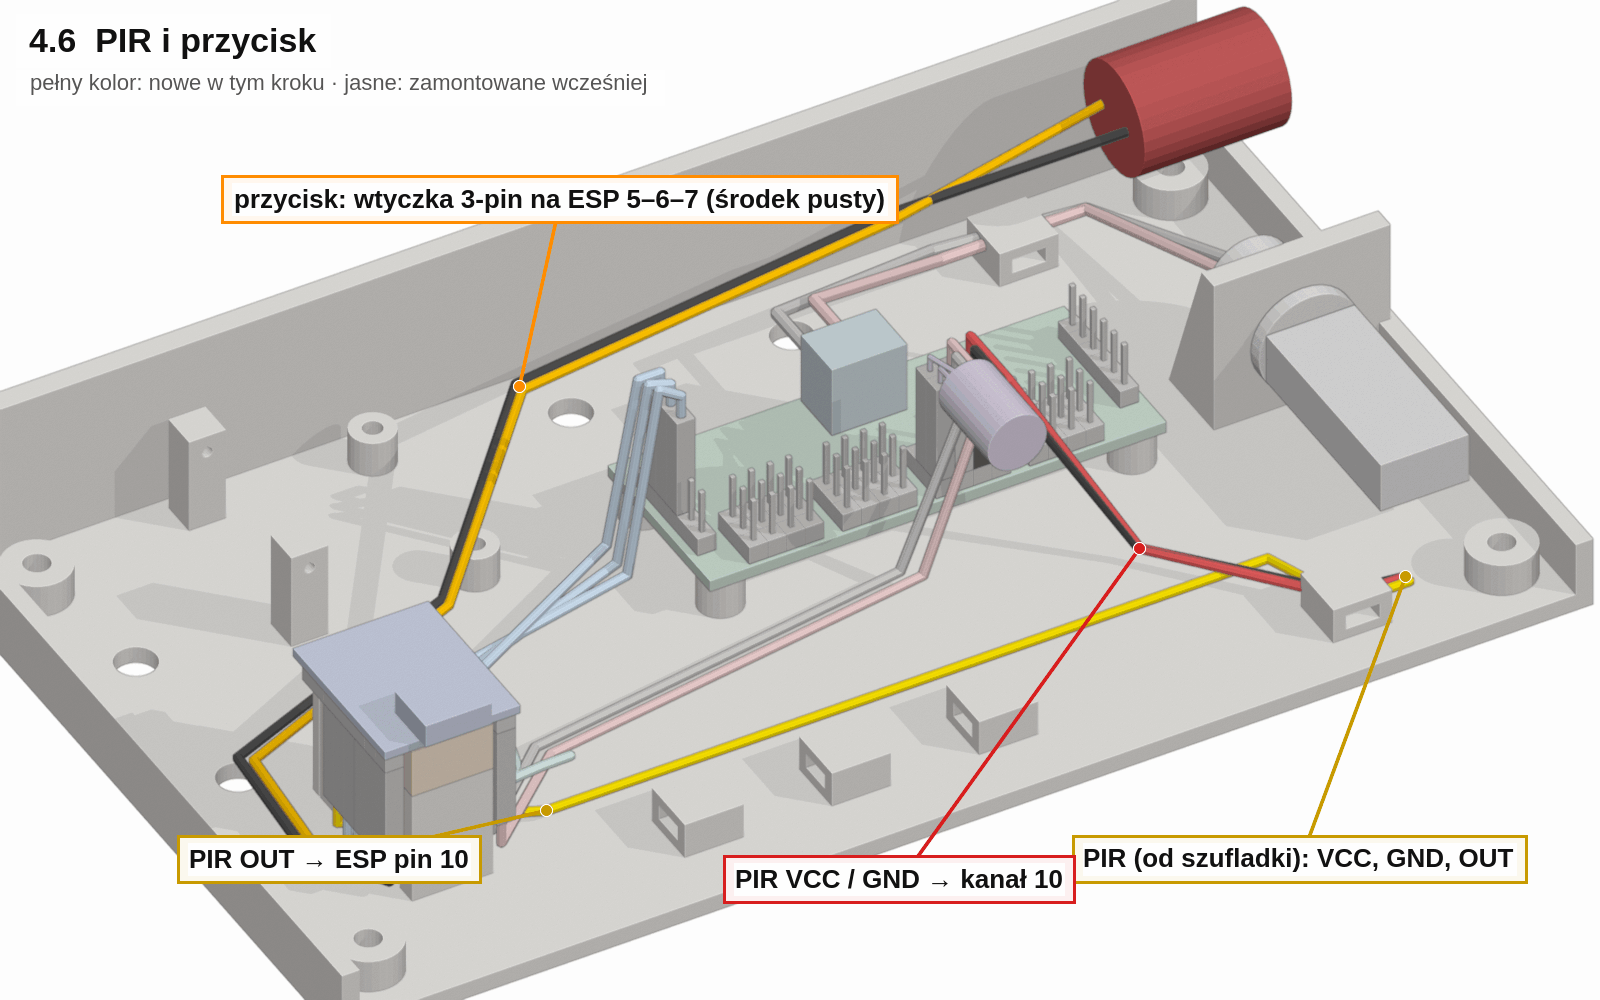
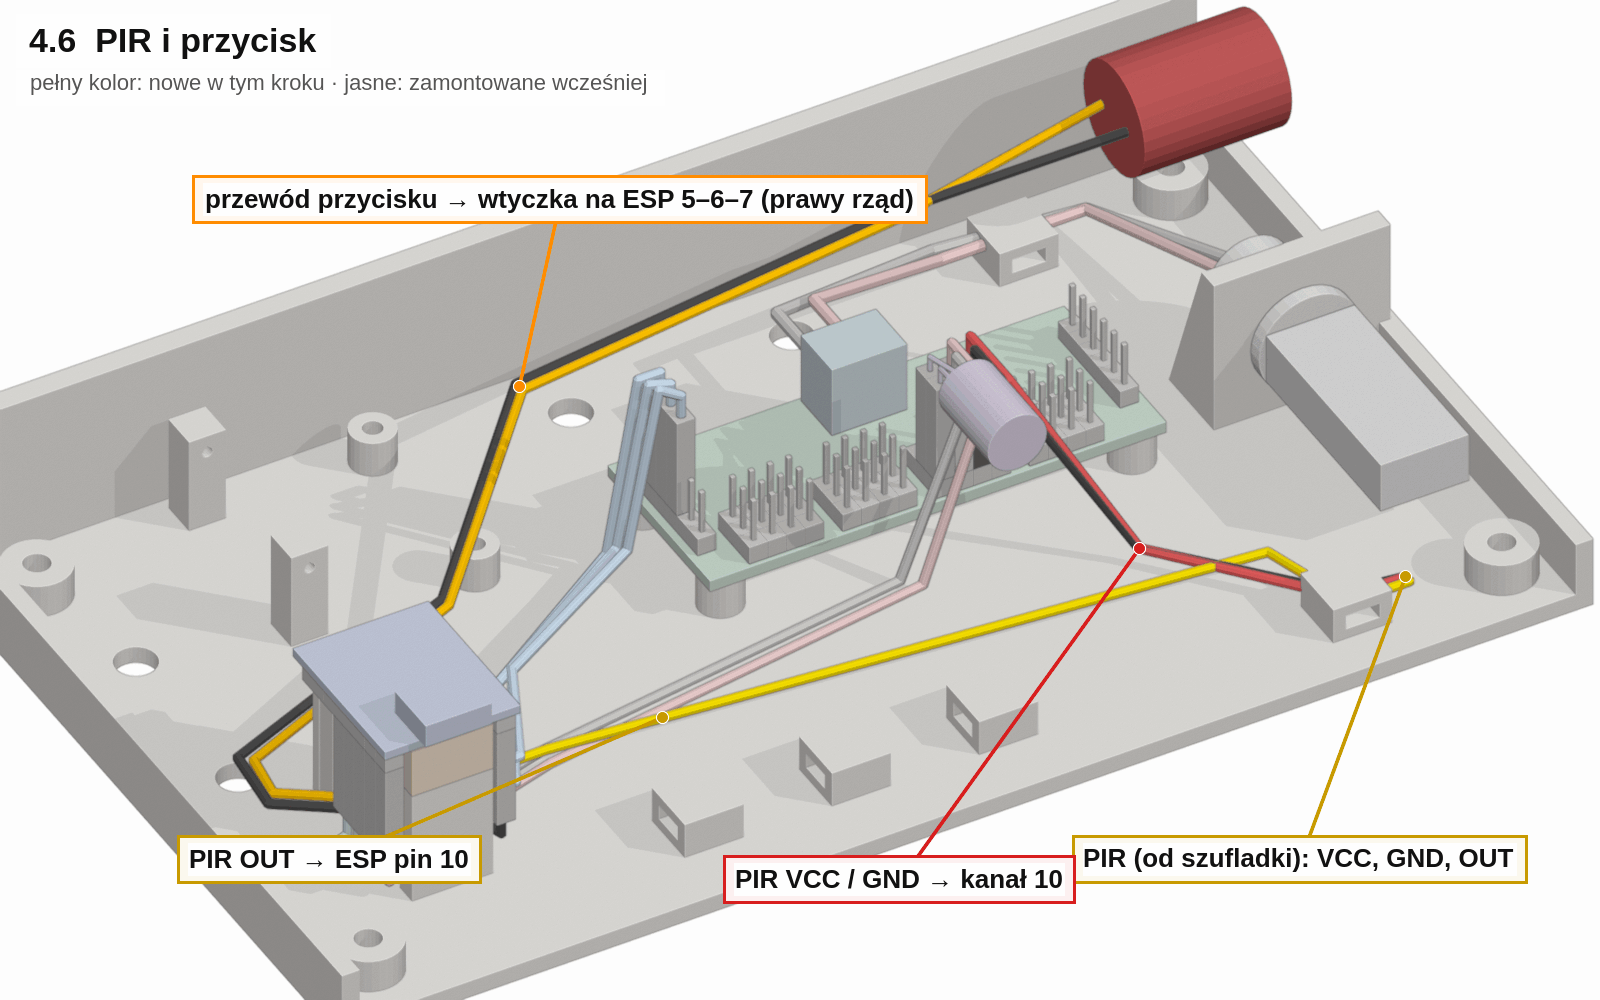
Piny ESP: rzędy zamienione na zgodne z pinoutem SuperMini (układ do góry, USB do przodu: lewy 5V/G/3V3…, prawy 5…21); model, trasy, rendery, nowy schemat 02a

Changed region(s): [[0.25, 0.465, 0.8125, 0.837], [0.125, 0.155, 0.5938, 0.248], [0.1562, 0.775, 0.2188, 0.837]]

diff --git a/50-elektronika/montaz-elektroniki/render.py b/50-elektronika/montaz-elektroniki/render.py
@@ -31,7 +31,7 @@ rowY = [46.8, 46.8 + gp, 46.8 + 2 * gp]          # GND, V+, sygnał
 def bokY(k): return 57.5 + (k - 2.5) * gp         # GND, OE, SCL, SDA, VCC, V+
 bokXL, bokXP = 77.3, 134.7
 dupTop = 9.0 + 2.5 + 14                           # 25,5
-eRowX = [24.2 - 7.6, 24.2 + 7.6]                  # od ściany | od PCA
+eRowX = [24.2 + 7.6, 24.2 - 7.6]   # [0] prawy, od PCA (GPIO5…21) | [1] lewy, od ściany (5V, G, 3V3, 4…0)
 def eY(k): return 18.3 + k * gp
 eDupBot = 25.4 - 2.5 - 14                         # 8,9
 SUFIT = 40
@@ -202,9 +202,7 @@ def krok(nazwa, tytul, nowe, stare, cam, etykiety=(), sufit=False, poziomy=(), z
     KROKI.append(dict(nazwa=nazwa, tytul=tytul, nowe=nowe, stare=stare, cam=cam, et=etykiety, sufit=sufit, poz=poziomy,
                       zn=znaczniki, ukryj=ukryj, leg=legenda))
 
-def pinESP(r, k, z=eDupBot): return (eRowX[r], eY(k), z)   # r: 0 rząd od ściany, 1 rząd od PCA; k: 0 = od przodu (USB)
-NIE_ESP = [g for g in GRUPY if g not in ("esp", "espPiny", "espWtyki", "podkladki", "przyciskWtyczka")]   # widoki spodu ESP: bez tacki i reszty
-SPOD = ((24.2, 26, 14), (0, -1.0, -1.0), 44)                                           # od przodu i z dołu
+# piny ESP z opisem: rysunek schematyczny krok02a-esp-piny w schematy.py (widok z góry, USB do patrzącego)
 dP = dupTop + 1.5                                                                      # punkt na przewodzie tuż nad wtykiem
 
 krok("krok00-calosc", "Całość na tacce", WSZ, [], ((85, 50, 12), ISO, 205), [
@@ -213,7 +211,7 @@ krok("krok00-calosc", "Całość na tacce", WSZ, [], ((85, 50, 12), ISO, 205), [
     ("zacisk V+ / GND", (106, 66, 19), (900, 180), "#1f6f8b"),
     ("gniazdo USB-C", (157, 46, 16), (1480, 600), SZ),
     ("przycisk", (161, 83, 30.5), (1420, 200), "#8b1a1a"),
-    ("przycisk: wtyczka 3-pin na ESP 5–6–7 (środek pusty)", (70, 82.7, 14), (560, 90), "#ff8c00"),
+    ("przewód przycisku → wtyczka na ESP 5–6–7 (prawy rząd)", (70, 82.7, 14), (560, 90), "#ff8c00"),
     ("skrętki do oczu", (70, 6, 40), (520, 880), FI),
     ("kondensator", (107, 30, 33), (900, 880), FI),
     ("rezystor (zapas)", (32, 80, 16.4), (300, 150), PO),
@@ -228,25 +226,9 @@ krok("krok01-pca", "4.1  PCA9685 na słupkach", K1, [], ((106, 58, 8), ISO, 115)
 krok("krok02-esp", "4.2  ESP: wtyki na pinach, podkładki, ESP na słupkach", K2, K1, ((28, 30, 18), (-0.6, -1.2, 1.0), 80), [
     ("podkładki 7 mm na słupkach (2 szt.)", (24.2, 16.5, 21.9), (1150, 420), PO),
     ("ESP: USB do przodu", (24.2, 15, 29.8), (330, 260), NI),
-    ("8 wtyków nałożonych przed klejeniem", (eRowX[1] + 1.25, eY(0) - 1.25, 12), (1150, 820), SZ),
-    ("przycisk: wtyczka 3-pin na ESP 5–6–7 (środek pusty)", (eRowX[0] - 1.25, eY(1), 12), (520, 900), "#ff8c00"),
+    ("8 wtyków nałożonych przed klejeniem", (eRowX[1] + 1.25, eY(0) - 1.25, 12), (430, 900), SZ),
+    ("przycisk: wtyczka 3-pin na ESP 5–6–7 (środek pusty)", (eRowX[0] + 0.5, eY(1) - 3.8, 12), (1150, 920), "#ff8c00"),
 ])
-krok("krok02a-esp-piny", "4.2  Wtyki na pinach ESP (od przodu z dołu, tacka ukryta)", K2, [], SPOD, [
-    ("5V", pinESP(1, 0), (1300, None), CZ),
-    ("G", pinESP(1, 1), (1300, None), SZ),
-    ("3V3", pinESP(1, 2), (1300, None), NI),
-    ("4: zapas", pinESP(1, 3), (1300, None), "#888888"),
-    ("3: zapas", pinESP(1, 4), (1300, None), "#888888"),
-    ("5: masa przycisku", pinESP(0, 0), (300, None), SZ),
-    ("6: pusty", pinESP(0, 1), (300, None), "#888888"),
-    ("7: przycisk", pinESP(0, 2), (300, None), "#ff8c00"),
-    ("8 = SDA", pinESP(0, 3), (300, None), NI),
-    ("9 = SCL", pinESP(0, 4), (300, None), NI),
-    ("10 (PIR OUT)", pinESP(0, 5), (300, None), ZO),
-    ("rząd od ściany", None, (300, 300), SZ),
-    ("↑ przód płytki (USB)", None, (800, 330), NI),
-    ("rząd od PCA", None, (1300, 300), SZ),
-], ukryj=NIE_ESP, legenda=False)
 krok("krok02b-esp-wysokosci", "4.2  Wysokości przy ESP (widok od przodu, przekrój)", K2, K1 + ["tacka"], ((45, 30, 20), (0, -1, 0), 110, 15), [],
      sufit=True, poziomy=[
          (0, "spód tacki 0", (10, 20), 40, 650),
@@ -264,7 +246,7 @@ krok("krok03-zasilanie", "4.3  Zasilanie: gniazdo USB-C do zacisku", K3, K1 + K2
 krok("krok04-esp-pca", "4.4  ESP do PCA", K4, K1 + K2 + K3, ((70, 42, 12), ISO, 135), [
     ("kanał 9: 5V / G z ESP", (chX(9), 48, 25.5), (1330, 430), CZ),
     ("lewa listwa: SDA, SCL, VCC", (bokXL, bokY(3), 25.5), (620, 150), NI),
-    ("zapas: ESP 3 i 4", (46, 27, 6.5), (200, 700), "#888888"),
+    ("zapas: ESP 4 i 3 (lewy rząd)", (11.5, 25, 5), (200, 700), "#888888"),
 ])
 krok("krok04b-lewa-listwa", "4.4  Zbliżenie: lewa listwa PCA (widok od lewej)", K4, K1 + K2 + K3, ((bokXL, 57.5, 21), (-1.0, -0.3, 0.9), 42), [
     ("VCC ← ESP 3V3", (bokXL, bokY(4), dP), (560, 170), NI),
@@ -278,18 +260,6 @@ krok("krok04c-kanal9", "4.4  Zbliżenie: kanał 9 (zasilanie ESP)", K4, K1 + K2 
     ("kanał 9 V+ ← ESP 5V (czerwony)", (chX(9), rowY[1], dP), (1150, 200), CZ),
     ("kanał 9 GND ← ESP G (czarny)", (chX(9), rowY[0], dupTop - 3), (1150, 850), SZ),
 ])
-krok("krok04d-esp-piny", "4.4  Przewody na pinach ESP (od przodu z dołu, tacka ukryta)", K4, K2, SPOD, [
-    ("5V → kanał 9 V+", pinESP(1, 0, 6.5), (1330, None), CZ),
-    ("G → kanał 9 GND", pinESP(1, 1, 6.5), (1330, None), SZ),
-    ("3V3 → VCC lewej listwy", pinESP(1, 2, 6.5), (1330, None), NI),
-    ("4: zapas", pinESP(1, 3, 7.7), (1330, 690), "#888888"),
-    ("3: zapas", pinESP(1, 4, 6.5), (1330, None), "#888888"),
-    ("5: masa przycisku", pinESP(0, 0), (260, None), SZ),
-    ("6: pusty", pinESP(0, 1), (260, None), "#888888"),
-    ("7: przycisk", pinESP(0, 2), (260, None), "#ff8c00"),
-    ("8 → SDA lewej listwy", pinESP(0, 3, 6.5), (260, None), NI),
-    ("9 → SCL lewej listwy", pinESP(0, 4, 6.5), (260, None), NI),
-], ukryj=[g for g in NIE_ESP if g not in K4])
 krok("krok05-kondensator", "4.5  Kondensator na kanale 8 (leży poziomo do przodu)", K5, K1 + K2 + K3 + K4, ((105, 42, 22), (-0.6, -1.0, 1.1), 62), [
     ("pasek (−) na GND kanału 8 (przy krawędzi)", (chX(8), rowY[0], dupTop), (420, 200), SZ),
     ("„+” na V+ kanału 8", (chX(8), rowY[1], dupTop), (1220, 230), CZ),
@@ -297,8 +267,8 @@ krok("krok05-kondensator", "4.5  Kondensator na kanale 8 (leży poziomo do przod
 ])
 krok("krok06-pir-przycisk", "4.6  PIR i przycisk", K6, K1 + K2 + K3 + K4 + K5, ((90, 50, 12), ISO, 190), [
     ("PIR (od szufladki): VCC, GND, OUT", (150, 10, 5), (1300, 860), ZO),
-    ("PIR OUT → ESP pin 10", (40, 22, 4), (330, 860), ZO),
-    ("przycisk: wtyczka 3-pin na ESP 5–6–7 (środek pusty)", (70, 82.7, 14), (560, 200), "#ff8c00"),
+    ("PIR OUT → ESP pin 10", (60, 29.5, 5), (330, 860), ZO),
+    ("przewód przycisku → wtyczka na ESP 5–6–7 (prawy rząd)", (70, 82.7, 14), (560, 200), "#ff8c00"),
     ("PIR VCC / GND → kanał 10", (125, 30, 5), (900, 880), CZ),
 ])
 krok("krok06b-kanal10-przycisk", "4.6  Zbliżenie – kanał 10: PIR VCC / GND", K6, K1 + K2 + K3 + K4 + K5, ((118, 52, 22), (0.2, -1.0, 1.5), 55), [
@@ -307,12 +277,6 @@ krok("krok06b-kanal10-przycisk", "4.6  Zbliżenie – kanał 10: PIR VCC / GND",
     ("kanał 8: kondensator", (chX(8) - 1, 40.5, dupTop + 4), (330, 300), FI),
     ("kanał 9: ESP", (chX(9), rowY[1], dP + 1.5), (380, 500), CZ),
 ])
-krok("krok06c-esp-piny", "4.6  PIR i przycisk na pinach ESP (od przodu z dołu, tacka ukryta)", K6, K2 + K4, SPOD, [
-    ("10 ← PIR OUT", pinESP(0, 5, 6.5), (260, None), ZO),
-    ("5: masa przycisku", pinESP(0, 0), (260, None), SZ),
-    ("6: pusty", pinESP(0, 1), (260, None), "#888888"),
-    ("7: przycisk", pinESP(0, 2), (260, None), "#ff8c00"),
-], ukryj=[g for g in NIE_ESP if g not in K4 + K6] + ["przycisk"])
 krok("krok07-skretki", "4.7  Skrętki do oczu (po jednej, z testem)", K7, K1 + K2 + K3 + K4 + K5 + K6, ((90, 35, 18), ISO, 150), [
     ("lewa: kanały 0–3", (55, 9, 12), (330, 850), FI),
     ("prawa: kanały 4–7", (75, 9, 12), (760, 900), FI),

diff --git a/50-elektronika/montaz-elektroniki/schematy.py b/50-elektronika/montaz-elektroniki/schematy.py
@@ -1,7 +1,7 @@
-# Rysunki schematyczne skrętek do montaz-elektroniki.md, rozdział 5 (SVG → PNG przez rsvg-convert).
-# Użycie: python3 schematy.py   → img/krok07d-lutowanie-wtyczek.png, img/krok07e-serwa-strona-oczu.png
+# Rysunki schematyczne do montaz-elektroniki.md: piny ESP (krok 2) i skrętki (rozdział 5), SVG → PNG przez rsvg-convert.
+# Użycie: python3 schematy.py [nazwa ...]   → img/krok02a-esp-piny.png, img/krok07d-lutowanie-wtyczek.png, img/krok07e-serwa-strona-oczu.png
 # Wymaga: rsvg-convert (librsvg), czcionka Liberation Sans albo DejaVu Sans.
-import os, subprocess
+import os, subprocess, sys
 
 TU = os.path.dirname(os.path.abspath(__file__))
 IMG = os.path.join(TU, "img")
@@ -51,6 +51,84 @@ def strzalka_wym(x0, x1, y, t):
         s += f'<path d="M{x},{y} l{14 * d},-8 l0,16 z" fill="#b00020"/>'
         s += f'<line x1="{x}" y1="{y - 16}" x2="{x}" y2="{y + 16}" stroke="#b00020" stroke-width="2"/>'
     return s + tekst((x0 + x1) / 2, y - 14, t, 22, "#b00020", "middle", True)
+
+# ---------- krok02a: piny ESP32-C3 SuperMini, widok z góry, USB do patrzącego ----------
+# Zgodnie z tabelą pinów w montaz-elektroniki.md, krok 2 (rząd lewy od ściany tacki: 5V, G, 3V3, 4, 3, 2, 1, 0;
+# rząd prawy od PCA: 5, 6, 7, 8, 9, 10, 20, 21; pozycje od USB).
+def krok02a():
+    W, H = 1600, 960
+    CZ, CA, NB, ZO, PO, ZP, SZ = "#d81e1e", "#141414", "#1e78d8", "#b08600", "#e07800", "#1f9a8a", "#9a9a9a"
+    LEWY = [("5V", "→ kanał 9 V+ (PCA)", CZ), ("G", "→ kanał 9 GND (PCA)", CA), ("3V3", "→ lewa listwa PCA: VCC", NB),
+            ("4", "zapas – koniec zaizolowany", ZP), ("3", "zapas – koniec zaizolowany", ZP),
+            ("2", "wolny", None), ("1", "wolny", None), ("0", "wolny", None)]
+    PRAWY = [("5", "→ przycisk: masa", PO), ("6", "pusty (środek wtyczki)", None), ("7", "→ przycisk: odczyt", PO),
+             ("8", "→ lewa listwa PCA: SDA", NB), ("9", "→ lewa listwa PCA: SCL", NB), ("10", "→ PIR OUT", ZO),
+             ("20", "wolny", None), ("21", "wolny", None)]
+    mm = 20                                     # skala płytki [px/mm]
+    cx, yb = 800, 740                           # oś płytki, krawędź płytki od strony USB
+    bw, bl = 18.4 * mm, 22.5 * mm
+    xl, xp = cx - 7.6 * mm, cx + 7.6 * mm       # rzędy pinów
+    def yk(k): return yb - (1.8 + 2.54 * k) * mm
+    s = tekst(30, 52, "4.2  Piny ESP – widok z góry: układ scalony do góry, USB do Ciebie", 34, bold=True)
+    s += tekst(30, 88, "pozycja liczona od USB (1 = najbliżej USB) · czarny kwadrat = wtyk Dupont nałożony na pin od spodu · napisy na płytce mają pierwszeństwo", 20, "#555")
+    # nagłówki kolumn i strony tacki
+    s += tekst(xl - 60, 170, "LEWY rząd (od ściany tacki)", 30, "#111", "end", True)
+    s += tekst(xp + 60, 170, "PRAWY rząd (od PCA)", 30, "#111", "start", True)
+    s += tekst(30, 215, "← lewa ściana tacki", 24, "#555")
+    s += tekst(W - 30, 215, "PCA9685 →", 24, "#555", "end")
+    # płytka
+    s += f'<rect x="{cx - bw / 2}" y="{yb - bl}" width="{bw}" height="{bl}" rx="14" fill="#1d3fb8" stroke="#0d1f66" stroke-width="4"/>'
+    s += f'<rect x="{cx - 2.5 * mm}" y="{yb - bl + 1.2 * mm}" width="{5 * mm}" height="{2.6 * mm}" rx="4" fill="#d9d9d9" stroke="#333" stroke-width="2"/>'
+    s += tekst(cx, yb - bl + 1.2 * mm + 34, "antena", 20, "#111", "middle")
+    s += f'<rect x="{cx - 2.6 * mm}" y="{yk(4.2)}" width="{5.2 * mm}" height="{5.2 * mm}" rx="6" fill="#151515" stroke="#555" stroke-width="2"/>'
+    s += tekst(cx, yk(4.2) + 2.6 * mm - 6, "układ", 20, "#fff", "middle", True)
+    s += tekst(cx, yk(4.2) + 2.6 * mm + 18, "scalony", 20, "#fff", "middle", True)
+    # gniazdo USB-C ESP (wystaje przed płytkę)
+    s += f'<rect x="{cx - 4.5 * mm}" y="{yb - 6 * mm}" width="{9 * mm}" height="{7.5 * mm}" rx="16" fill="#c0c4c9" stroke="#333" stroke-width="3"/>'
+    s += tekst(cx, yb - 2.2 * mm, "USB-C", 24, "#111", "middle", True)
+    # wtyczka przycisku 3-pin na prawych pozycjach 1–3 (obudowa pod płytką)
+    s += f'<rect x="{xp - 22}" y="{yk(2) - 30}" width="44" height="{yk(0) - yk(2) + 60}" rx="6" fill="#202020" stroke="{PO}" stroke-width="4"/>'
+    # piny, wtyki, nazwy na płytce, etykiety
+    for strona, rzad, x in (("L", LEWY, xl), ("P", PRAWY, xp)):
+        for k, (nazwa, dokad, kol) in enumerate(rzad):
+            y = yk(k)
+            wtyk = kol is not None
+            if wtyk and not (strona == "P" and k <= 2):
+                s += f'<rect x="{x - 19}" y="{y - 19}" width="38" height="38" rx="4" fill="#151515"/>'
+            s += f'<circle cx="{x}" cy="{y}" r="11" fill="#e8c35a" stroke="#6b5310" stroke-width="3"/>'
+            s += f'<circle cx="{x}" cy="{y}" r="4" fill="#6b5310"/>'
+            # nazwa pinu na płytce (jak nadruk)
+            s += tekst(x + (26 if strona == "L" else -26), y + 7, nazwa, 20, "#ffffff", "start" if strona == "L" else "end", True)
+            # numer pozycji od USB
+            xn = x - 70 if strona == "L" else x + 70
+            # etykieta: [nazwa] dokąd
+            kol_r = kol or SZ
+            txt = dokad
+            szer_n = 22 + 15 * len(nazwa)
+            szer_t = 13.2 * len(txt) + 20
+            xb0 = xn - 30 - szer_n - szer_t if strona == "L" else xn + 30
+            s += f'<line x1="{x}" y1="{y}" x2="{xn + (-17 if strona == "L" else 17)}" y2="{y}" stroke="{kol_r}" stroke-width="3"/>'
+            s += f'<line x1="{xn + (-17 if strona == "L" else 17)}" y1="{y}" x2="{xb0 + (szer_n + szer_t if strona == "L" else 0)}" y2="{y}" stroke="{kol_r}" stroke-width="3"/>'
+            s += f'<circle cx="{xn}" cy="{y}" r="17" fill="#ffffff" stroke="#777" stroke-width="2"/>' + tekst(xn, y + 7, str(k + 1), 20, "#555", "middle", True)
+            s += f'<rect x="{xb0}" y="{y - 20}" width="{szer_n + szer_t}" height="40" rx="7" fill="#ffffff" stroke="{kol_r}" stroke-width="3"/>'
+            s += f'<rect x="{xb0}" y="{y - 20}" width="{szer_n}" height="40" rx="7" fill="{kol_r}"/>'
+            s += tekst(xb0 + szer_n / 2, y + 9, nazwa, 26, "#ffffff", "middle", True)
+            s += tekst(xb0 + szer_n + 10, y + 8, txt, 22, "#111" if kol else "#888", "start", bool(kol))
+    for xn in (xl - 70, xp + 70):
+        s += tekst(xn, yk(7) - 34, "poz.", 18, "#777", "middle", True)
+    # klamra: wtyczka przycisku
+    xk = 1460
+    s += f'<path d="M{xk},{yk(0) + 20} l14,0 l0,{-(yk(0) - yk(2)) - 40} l-14,0" fill="none" stroke="{PO}" stroke-width="4"/>'
+    s += tekst(xk + 22, yk(1) - 4, "jedna", 22, PO, "start", True)
+    s += tekst(xk + 22, yk(1) + 20, "wtyczka", 22, PO, "start", True)
+    s += tekst(xk + 22, yk(1) + 44, "przycisku", 22, PO, "start", True)
+    # USB do patrzącego
+    ya = yb + 2 * mm
+    s += f'<line x1="{cx}" y1="{ya}" x2="{cx}" y2="{ya + 90}" stroke="#b00020" stroke-width="6"/>'
+    s += f'<path d="M{cx - 20},{ya + 80} L{cx},{ya + 115} L{cx + 20},{ya + 80} z" fill="#b00020"/>'
+    s += tekst(cx + 40, ya + 70, "USB – do Ciebie / do przodu tacki", 28, "#b00020", "start", True)
+    s += tekst(30, H - 30, "Wolne piny: 2, 1, 0 (lewy rząd) oraz 20, 21 (prawy rząd) – bez wtyków.", 22, "#333")
+    zapisz("krok02a-esp-piny", W, H, s)
 
 # ---------- krok07d: strona tacki – żyły do wtyczek odciętych od serw ----------
 def krok07d():
@@ -165,5 +243,6 @@ def krok07e():
 
 if __name__ == "__main__":
     os.makedirs(IMG, exist_ok=True)
-    krok07d()
-    krok07e()
+    RYS = {"krok02a-esp-piny": krok02a, "krok07d-lutowanie-wtyczek": krok07d, "krok07e-serwa-strona-oczu": krok07e}
+    for n in sys.argv[1:] or RYS:
+        RYS[n]()

diff --git a/50-elektronika/montaz-elektroniki.md b/50-elektronika/montaz-elektroniki.md
@@ -39,7 +39,7 @@ Obrazki wygenerowano z modelu `montaz-elektroniki/elementy.scad` (tacka z commit
 | 8 | PIR VCC | kanał 10 V+ | czerwony | 400, przyciąć na miejscu | kabel DFRobot na PIR (środkowy przewód = OUT – sprawdź) / lut + żeńska połówka |
 | 9 | PIR GND | kanał 10 GND | czarny | 400, przyciąć | kabel DFRobot na PIR (środkowy przewód = OUT – sprawdź) / lut + żeńska połówka |
 | 10 | PIR OUT | ESP 10 | żółty | 450, przyciąć | kabel DFRobot na PIR (środkowy przewód = OUT – sprawdź) / lut + żeńska połówka |
-| 11 | przycisk (obie nóżki) | ESP piny 5–6–7, rząd od ściany tacki | gotowy przewód użytkownika | min. ok. 200 (trasa w modelu ok. 185) – sprawdź, czy sięga | przylutowany / wtyczka 3-pin na skrajnych pozycjach, środek pusty; strona wtyczki obojętna |
+| 11 | przycisk (obie nóżki) | ESP piny 5–6–7, rząd prawy (od PCA), pozycje 1–3 od USB | gotowy przewód użytkownika | min. ok. 200 (trasa w modelu ok. 185) – sprawdź, czy sięga | przylutowany / wtyczka 3-pin na skrajnych pozycjach, środek pusty; strona wtyczki obojętna |
 | 13 | ESP 3 | – (zapas) | dowolny | 200 | Dupont / koniec zaizolowany |
 | 14 | ESP 4 | – (zapas) | dowolny | 200 | Dupont / koniec zaizolowany |
 
@@ -63,24 +63,24 @@ PIR: od płytki w szufladce przez korpus do uchwytu opaski na tacce (przedni pra
    ![PCA na słupkach](montaz-elektroniki/img/krok01-pca.png)
 2. **ESP – wtyki przed klejeniem:** nałóż 8 pojedynczych wtyków (5V, G, 3V3, 4, 8, 9, 10, 3) i wtyczkę przycisku 3-pin na piny 5–6–7 (przycisk z przewodem wisi luzem do kroku 6) (piny z rysunku w `polaczenia.md`; napisy na płytce mają pierwszeństwo). Opisz końce taśmą. Zmierz od spodu płytki do miejsca, gdzie przewód da się zgiąć – to wysokość podkładek + 16. Podkładki przyklej na słupki, ESP na podkładki, USB do przodu.
 
-   Piny ESP (widok z góry, USB do przodu tacki; liczone od strony USB). Wtyk = Dupont żeński na pinie:
+   Piny ESP – widok z góry: układ scalony do góry, USB do przodu tacki (do Ciebie, na dole). Pozycja liczona od USB. Wtyk = Dupont żeński na pinie:
 
-   | Poz. od USB | Rząd od ściany tacki | wtyk → dokąd | Rząd od PCA | wtyk → dokąd |
+   | Poz. od USB | Rząd LEWY (od ściany tacki) | wtyk → dokąd | Rząd PRAWY (od PCA) | wtyk → dokąd |
    |---|---|---|---|---|
-   | 1 | 5 | **wtyczka przycisku** (masa przycisku – program ustawia LOW) | 5V | **tak** → kanał 9 V+ |
-   | 2 | 6 | środek wtyczki przycisku – pusty | G | **tak** → kanał 9 GND |
-   | 3 | 7 | **wtyczka przycisku** (odczyt) | 3V3 | **tak** → lewa listwa VCC |
-   | 4 | 8 | **tak** → lewa listwa SDA | 4 | **tak** – zapas, koniec zaizolowany |
-   | 5 | 9 | **tak** → lewa listwa SCL | 3 | **tak** – zapas, koniec zaizolowany |
-   | 6 | 10 | **tak** → PIR OUT | 2 | – |
-   | 7 | 20 | – | 1 | – |
-   | 8 | 21 | – | 0 | – |
+   | 1 | 5V | **tak** → kanał 9 V+ | 5 | **wtyczka przycisku** (masa przycisku – program ustawia LOW) |
+   | 2 | G | **tak** → kanał 9 GND | 6 | środek wtyczki przycisku – pusty |
+   | 3 | 3V3 | **tak** → lewa listwa VCC | 7 | **wtyczka przycisku** (odczyt) |
+   | 4 | 4 | **tak** – zapas, koniec zaizolowany | 8 | **tak** → lewa listwa SDA |
+   | 5 | 3 | **tak** – zapas, koniec zaizolowany | 9 | **tak** → lewa listwa SCL |
+   | 6 | 2 | – | 10 | **tak** → PIR OUT |
+   | 7 | 1 | – | 20 | – |
+   | 8 | 0 | – | 21 | – |
 
-   Kolejność z typowego ESP32-C3 SuperMini – przed nałożeniem wtyków porównaj z napisami na płytce. Wtyki zabezpiecz klejem na gorąco dopiero po testach (krok 9): kropla łączy obudowy w rzędzie z plastikiem listwy, nie na elementy płytki i nie na gniazdo USB.
+   Układ według pinoutu ESP32-C3 SuperMini (Random Nerd Tutorials; tam płytka pokazana od spodu, USB u góry) i obserwacji użytkownika 28.10 (USB do siebie, 5V, G, 3V3 po lewej). Napisy na płytce mają pierwszeństwo. Wtyki zabezpiecz klejem na gorąco dopiero po testach (krok 9): kropla łączy obudowy w rzędzie z plastikiem listwy, nie na elementy płytki i nie na gniazdo USB.
 
    ![ESP: wtyki, podkładki, ESP na słupkach](montaz-elektroniki/img/krok02-esp.png)
 
-   ![Wtyki na pinach ESP, widok od przodu z dołu](montaz-elektroniki/img/krok02a-esp-piny.png)
+   ![Piny ESP, widok z góry, USB do Ciebie: dokąd idzie każdy pin](montaz-elektroniki/img/krok02a-esp-piny.png)
 
    ![Wysokości przy ESP](montaz-elektroniki/img/krok02b-esp-wysokosci.png)
 3. **Zasilanie:** gniazdo USB-C w ściankę (nakrętka od tyłu), przewody 1–2 przez uchwyt opaski do zacisku (V+ i GND według napisu przy zacisku). **Test:** powerbank, miernik na pinach V+/GND kanału 9: ok. 5 V.
@@ -93,8 +93,6 @@ PIR: od płytki w szufladce przez korpus do uchwytu opaski na tacce (przedni pra
    ![Lewa listwa PCA: VCC, SDA, SCL](montaz-elektroniki/img/krok04b-lewa-listwa.png)
 
    ![Kanał 9: 5V i G z ESP](montaz-elektroniki/img/krok04c-kanal9.png)
-
-   ![Przewody na pinach ESP](montaz-elektroniki/img/krok04d-esp-piny.png)
 5. **Kondensator:** nóżki skrócone i zagięte, wtyki na kanał 8: pasek (−) na GND (rząd przy krawędzi płytki), druga na V+. Korpus leży poziomo do przodu; przewody 5V i G do kanału 9 poprowadź obok korpusu, nie przez niego (w modelu trasa ociera o kondensator).
 
    ![Kondensator na kanale 8](montaz-elektroniki/img/krok05-kondensator.png)
@@ -103,8 +101,6 @@ PIR: od płytki w szufladce przez korpus do uchwytu opaski na tacce (przedni pra
    ![PIR i przycisk](montaz-elektroniki/img/krok06-pir-przycisk.png)
 
    ![Kanał 10: PIR VCC / GND](montaz-elektroniki/img/krok06b-kanal10-przycisk.png)
-
-   ![PIR OUT i przycisk na pinach ESP](montaz-elektroniki/img/krok06c-esp-piny.png)
 7. **Skrętki** (rozdział 5), po jednej: lewa → test oczu 0–3, prawa → 4–7, duże oko → 12–15 + ustalenie sprzężenia (`dynia-v2/README.md`).
 
    ![Skrętki do oczu](montaz-elektroniki/img/krok07-skretki.png)
